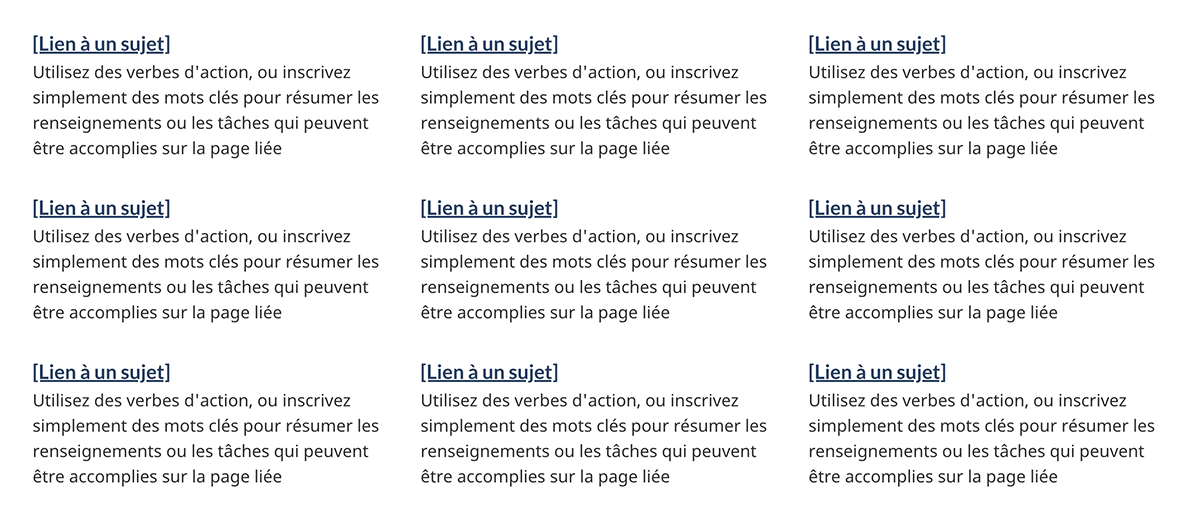
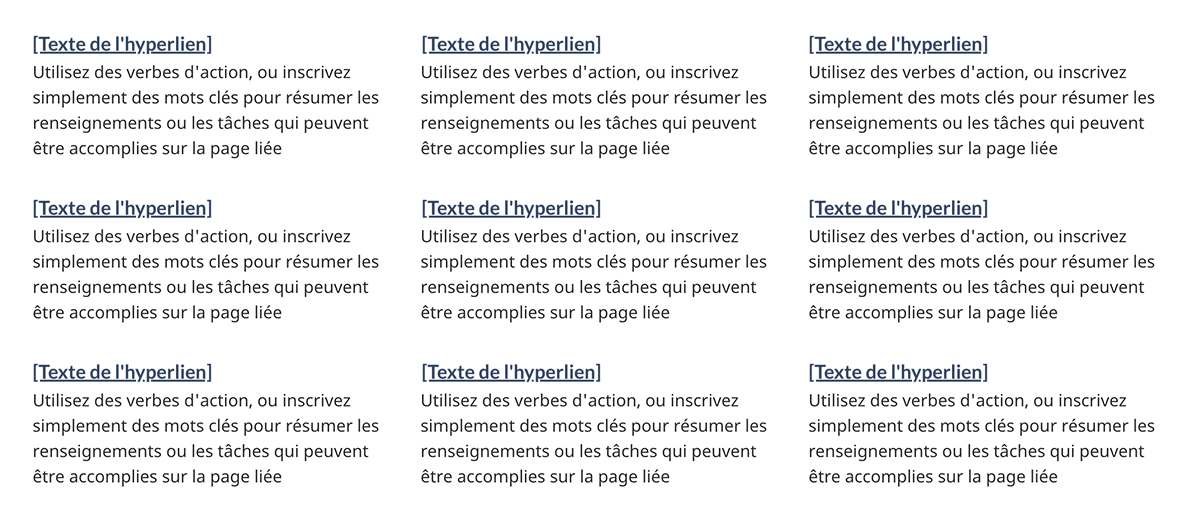
update fr

diff --git a/configurations-conception-communes/vignettes-promotionnelles.md b/configurations-conception-communes/vignettes-promotionnelles.md
@@ -119,7 +119,7 @@ title: "Promotions contextuelles"
       <img src="/images/contextual-features-fr.png" class="img-responsive" alt="Promotions contextuelles pour les grands écrans. Version texte ci-dessous&nbsp;:" />
       <details>
         <summary class="wb-toggle" data-toggle='{"print":"on"}'>Description de l’image&nbsp;: promotions contextuelles - grand écran</summary>
-        <p>Un en-tête de section intitulé &laquo;&nbsp;En vedette&nbsp;&raquo; est suivi de deux espaces réservés aux éléments en vedette dans une rangée horizontale. Chacun d’eux comporte un espace réservé à l’image, entouré d’un fond gris clair. L’espace réservé à l’image contient les dimensions prévues de l’image&nbsp;: 360 sur 203 pixels. Sous chaque espace réservé à l’image, sur fond gris, se trouve un espace réservé à un hyperlien qui se lit comme suit&nbsp;: [Hyperlien de l’élément en vedette]. On trouve en dessous le texte de l’espace réservé suivant&nbsp;: Brève description de l’élément en vedette.</p>
+        <p>Un en-tête de section intitulé &laquo;&nbsp;En vedette&nbsp;&raquo; est suivi de deux espaces réservés aux éléments en vedette dans une rangée horizontale. Chacun d’eux comporte un espace réservé à l’image, entouré d’un fond gris clair. L’espace réservé à l’image contient les dimensions prévues de l’image&nbsp;: 360 sur 203 pixels. Sous chaque espace réservé à l’image, sur fond gris, se trouve un espace réservé à un hyperlien qui se lit comme suit&nbsp;: [Lien vers l’élément en vedette en vedette]. On trouve en dessous le texte de l’espace réservé suivant&nbsp;: Brève description de l’élément en vedette.</p>
       </details>
     </figure>
   </div>
@@ -129,7 +129,7 @@ title: "Promotions contextuelles"
       <img src="/images/contextual-features-sm-fr.png" class="img-responsive" alt="Promotions contextuelles pour les petits écrans. Version texte ci-dessous&nbsp;:" />
       <details>
         <summary class="wb-toggle" data-toggle='{"print":"on"}'>Description de l’image&nbsp;: promotions contextuelles - petit écran</summary>
-        <p>Un en-tête de section intitulé &laquo;&nbsp;En vedette&nbsp;&raquo; est suivi de deux espaces réservés aux éléments en vedette dans une rangée verticale. Chacun d’eux comporte un espace réservé à l’image, entouré d’un fond gris clair. L’espace réservé à l’image contient les dimensions prévues de l’image&nbsp;: 360 sur 203 pixels. Sous chaque espace réservé à l’image, sur fond gris, se trouve un espace réservé à un hyperlien qui se lit comme suit&nbsp;: [Hyperlien de l’élément en vedette]. On trouve en dessous le texte de l’espace réservé suivant&nbsp;: Brève description de l’élément en vedette.</p>
+        <p>Un en-tête de section intitulé &laquo;&nbsp;En vedette&nbsp;&raquo; est suivi de deux espaces réservés aux éléments en vedette dans une rangée verticale. Chacun d’eux comporte un espace réservé à l’image, entouré d’un fond gris clair. L’espace réservé à l’image contient les dimensions prévues de l’image&nbsp;: 360 sur 203 pixels. Sous chaque espace réservé à l’image, sur fond gris, se trouve un espace réservé à un hyperlien qui se lit comme suit&nbsp;: [Lien vers l’élément en vedette en vedette]. On trouve en dessous le texte de l’espace réservé suivant&nbsp;: Brève description de l’élément en vedette.</p>
       </details>
     </figure>
   </div>
